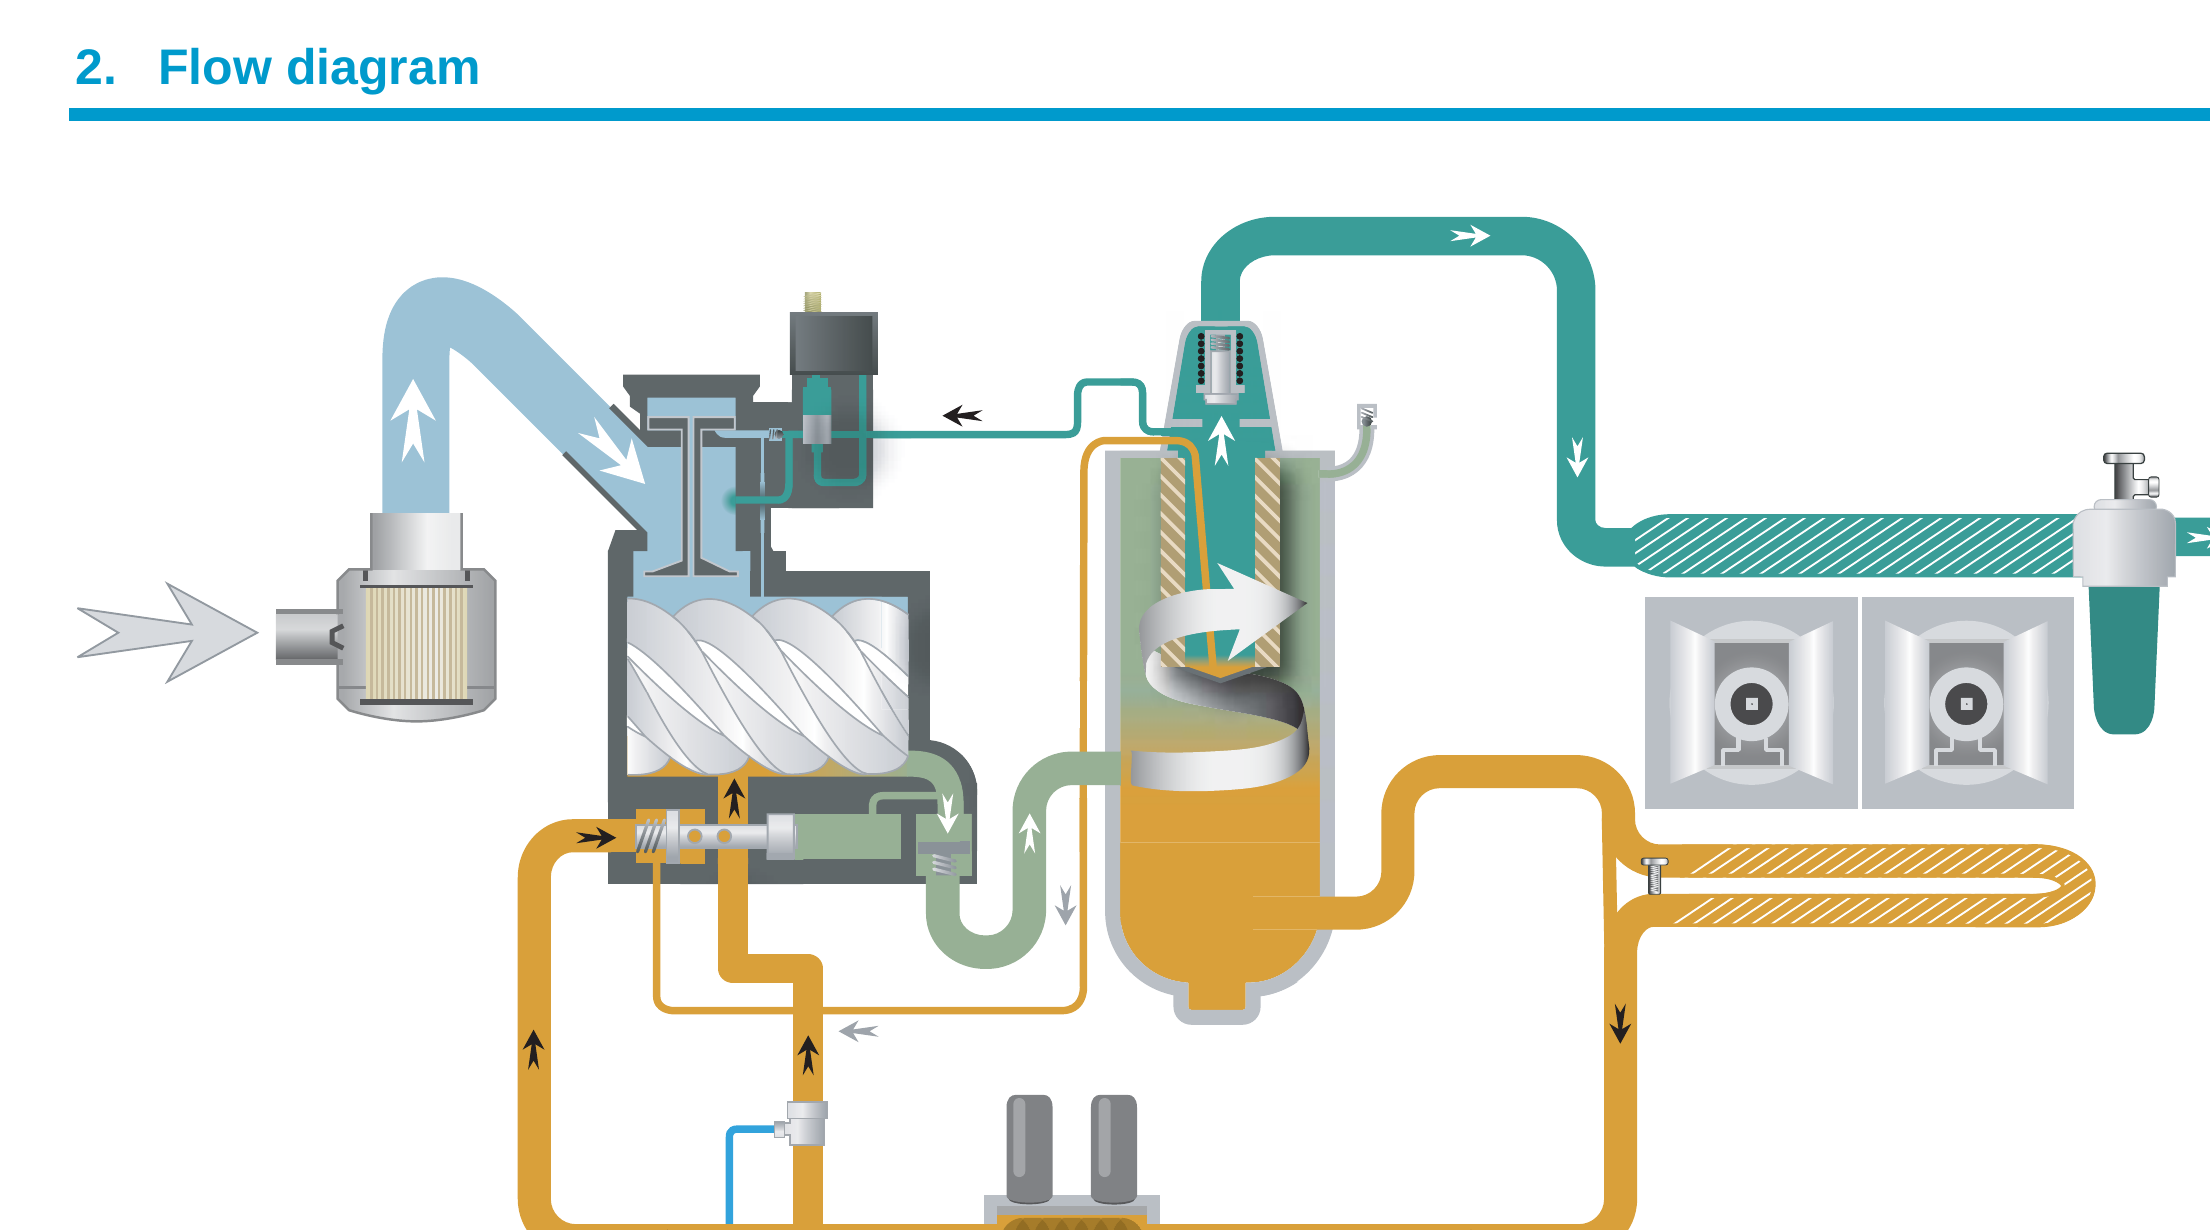
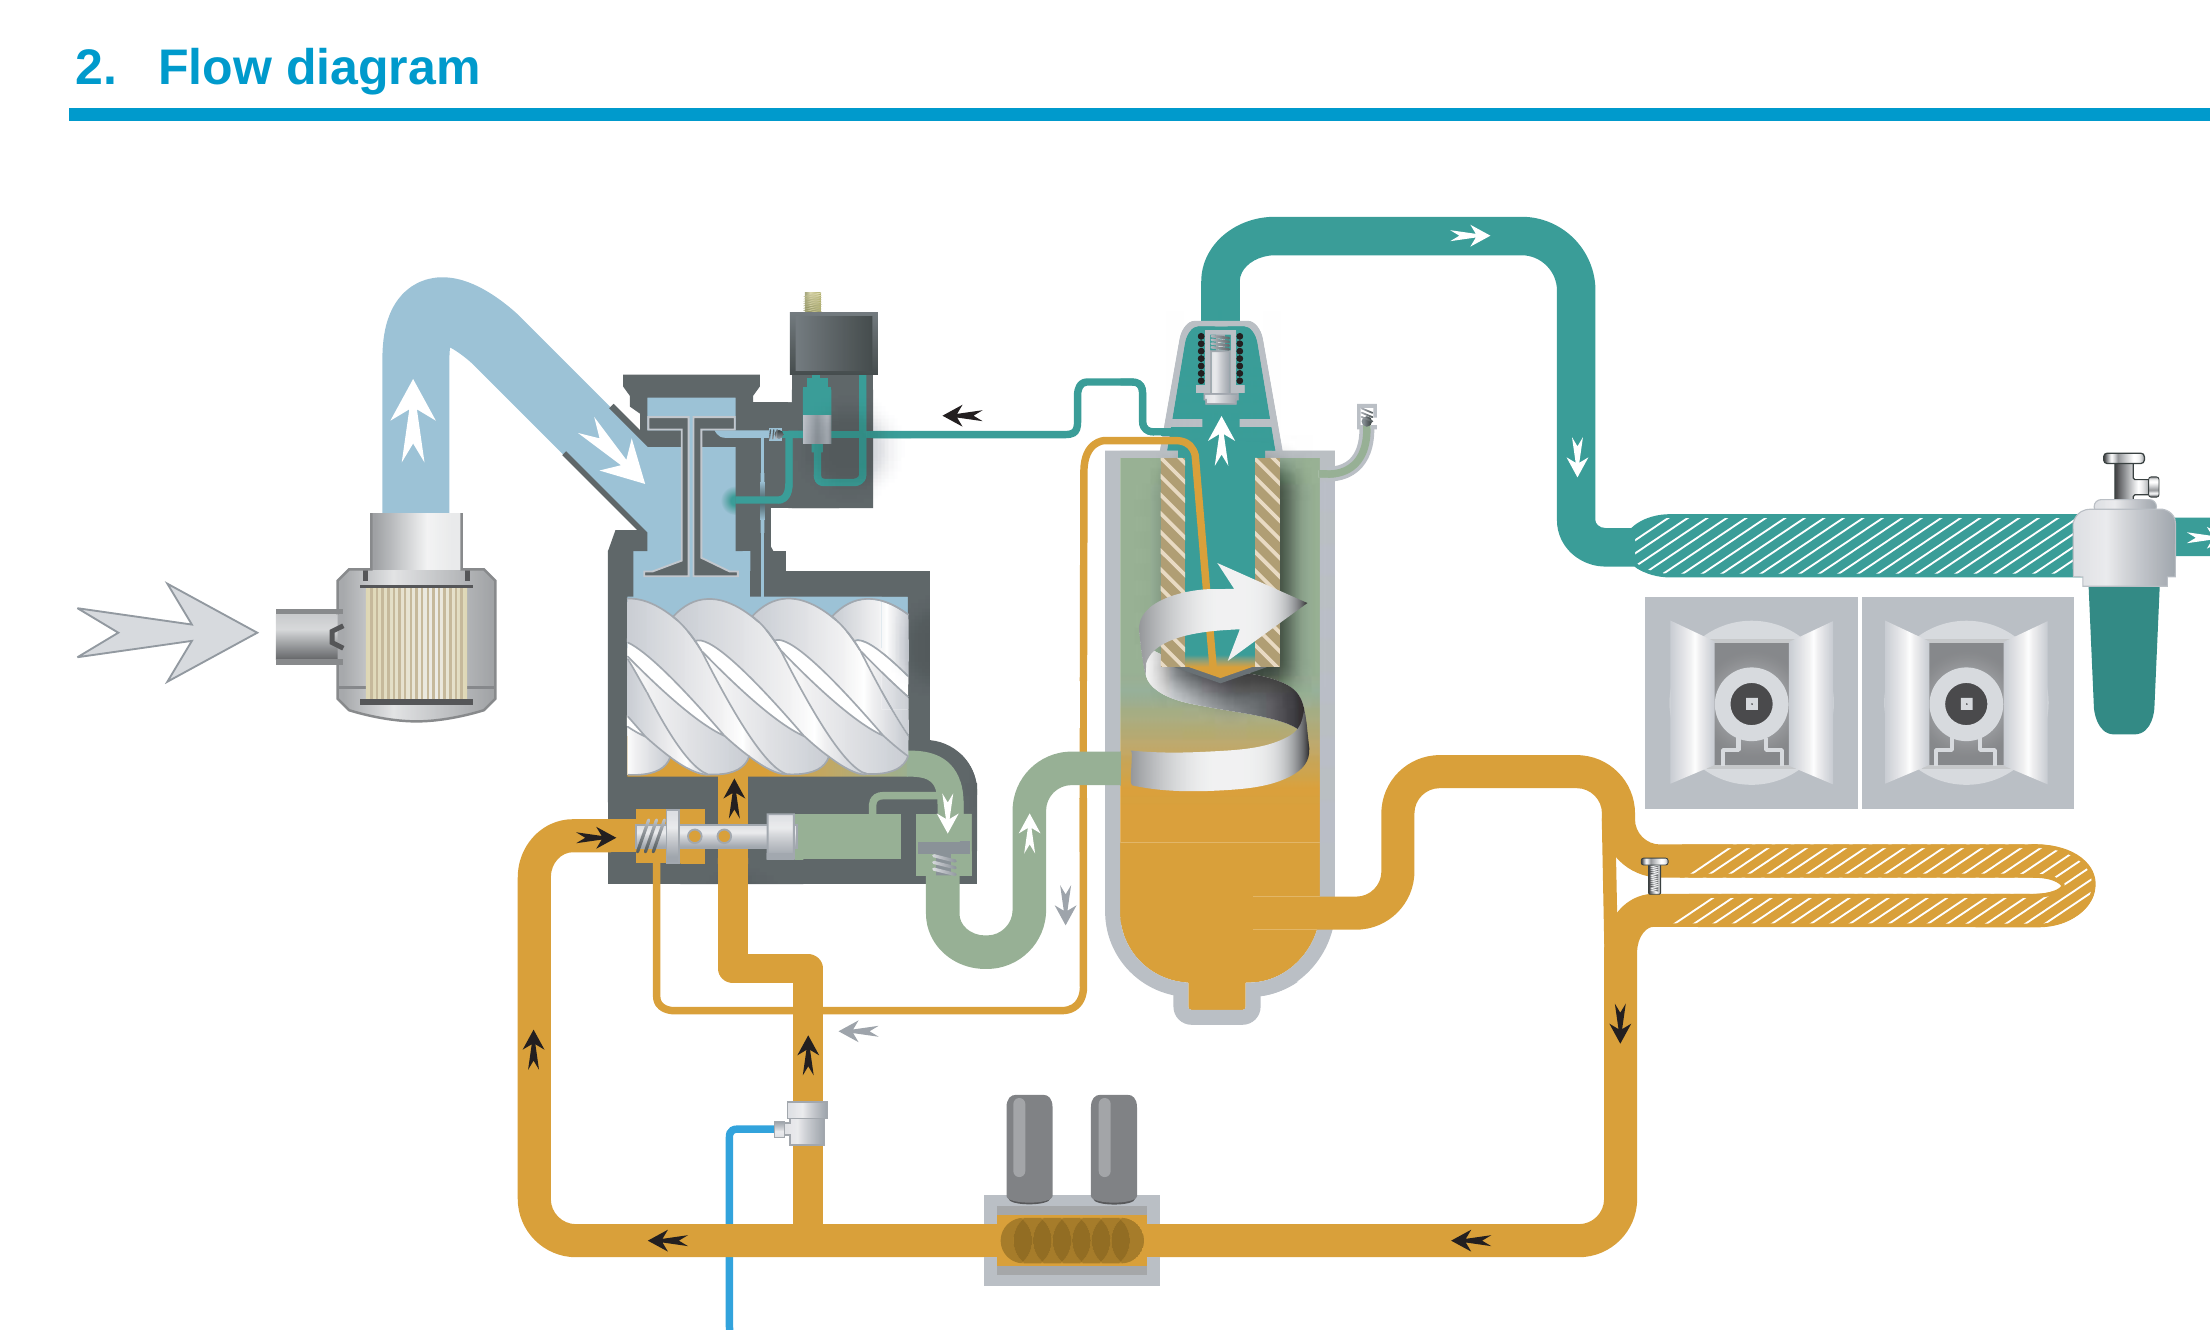
Recorta diagrama completo y anima solo las flechas originales, sin mover el tubo
Claude-Session: https://claude.ai/code/session_011JbwPBwhAyv1fQmhFgUqLe

diff --git a/compresores/ga.html b/compresores/ga.html
@@ -5,8 +5,7 @@
 <meta name="viewport" content="width=device-width,initial-scale=1">
 <title>Flujo de aire y aceite - Compresor GA (enfriado por aire)</title>
 <style>
-:root{--bg:#f7f7f5;--fg:#1d1d1b;--mut:#6b6b66;--card:#ffffff;--line:#c9c9c2;--acc:#0a7e8c;--hi:#e23b2e;
---c-air:#9fc3e8;--c-wet:#1f9e8f;--c-mix:#8fae7f;--c-oil:#e0a339}
+:root{--bg:#f7f7f5;--fg:#1d1d1b;--mut:#6b6b66;--card:#ffffff;--line:#c9c9c2;--acc:#0a7e8c;--hi:#e23b2e}
 @media (prefers-color-scheme:dark){:root{--bg:#161715;--fg:#ececea;--mut:#9a9a94;--card:#1f201d;--line:#44463f;--acc:#3fc1cf;--hi:#ff6b5e}}
 *{box-sizing:border-box}
 body{margin:0;font-family:system-ui,-apple-system,sans-serif;background:var(--bg);color:var(--fg)}
@@ -19,27 +18,26 @@ button.on{background:var(--acc);color:#fff;border-color:var(--acc)}
 .status{color:var(--mut);font-size:13px;margin-left:auto}
 .wrap{display:grid;grid-template-columns:1fr 300px;gap:12px;padding:0 18px 18px}
 @media(max-width:800px){.wrap{grid-template-columns:1fr}}
-.stage{position:relative;border:1px solid var(--line);border-radius:10px;background:#fff;overflow:auto;height:560px;touch-action:none}
-.canvas{position:relative;transform-origin:0 0;cursor:grab;width:2210px;height:1230px}
+.stage{position:relative;border:1px solid var(--line);border-radius:10px;background:#fff;overflow:auto;height:720px;touch-action:none}
+.canvas{position:relative;transform-origin:0 0;cursor:grab;width:2210px;height:1330px}
 .canvas.drag{cursor:grabbing}
-.canvas img{position:absolute;top:0;left:0;width:2210px;height:1230px;user-select:none;pointer-events:none}
-.canvas svg{position:absolute;top:0;left:0;width:2210px;height:1230px;pointer-events:none}
-.hot{position:absolute;width:34px;height:34px;margin:-17px 0 0 -17px;border-radius:50%;background:transparent;border:2px solid transparent;cursor:pointer;pointer-events:auto}
+.canvas>img.base{position:absolute;top:0;left:0;width:2210px;height:1330px;user-select:none;pointer-events:none}
+.arr{position:absolute;pointer-events:none;will-change:transform}
+.hot{position:absolute;width:34px;height:34px;margin:-17px 0 0 -17px;border-radius:50%;background:transparent;border:2px solid transparent;cursor:pointer}
 .hot:hover,.hot.sel{background:rgba(226,59,46,.2);border-color:var(--hi)}
 .side{border:1px solid var(--line);border-radius:10px;background:var(--card);padding:14px;font-size:14px;line-height:1.55;align-self:start}
 .side h2{font-size:16px;margin:0 0 6px}
-.code-tag{color:var(--acc);font-weight:700}
 .legend{display:flex;flex-wrap:wrap;gap:10px;font-size:12px;color:var(--mut);padding:0 18px 10px}
 .legend span{display:inline-flex;align-items:center;gap:5px}
 .sw{width:12px;height:12px;border-radius:3px;display:inline-block}
 .zoombar{display:flex;gap:6px;margin-left:8px}
-.therm{display:flex;gap:6px;margin-left:8px;border-left:1px solid var(--line);padding-left:10px}
+.therm{display:flex;gap:6px;margin-left:8px;border-left:1px solid var(--line);padding-left:10px;align-items:center}
 </style>
 </head>
 <body>
 <header>
   <h1>Compresor GA enfriado por aire - diagrama de flujo animado</h1>
-  <p class="sub">Mismo diagrama del manual Atlas Copco (PM 2946 1198 00), con el recorrido de aire y aceite animado.</p>
+  <p class="sub">Diagrama del manual Atlas Copco (PM 2946 1198 00). Las flechas del propio diagrama se mueven en su dirección de flujo.</p>
 </header>
 <div class="bar">
   <div class="therm">
@@ -55,63 +53,63 @@ button.on{background:var(--acc);color:#fff;border-color:var(--acc)}
   <span id="status" class="status"></span>
 </div>
 <div class="legend">
-  <span><i class="sw" style="background:var(--c-air)"></i>Aire de entrada</span>
-  <span><i class="sw" style="background:var(--c-mix)"></i>Mezcla aire/aceite</span>
-  <span><i class="sw" style="background:var(--c-wet)"></i>Aire húmedo (comprimido)</span>
-  <span><i class="sw" style="background:var(--c-oil)"></i>Aceite</span>
+  <span><i class="sw" style="background:#9fc3e8"></i>Aire de entrada</span>
+  <span><i class="sw" style="background:#8fae7f"></i>Mezcla aire/aceite</span>
+  <span><i class="sw" style="background:#1f9e8f"></i>Aire húmedo (comprimido)</span>
+  <span><i class="sw" style="background:#e0a339"></i>Aceite</span>
 </div>
 <div class="wrap">
   <div class="stage" id="stage">
     <div class="canvas" id="canvas">
-      <img src="img/ga_flujo.png" alt="Diagrama de flujo del compresor GA">
-      <div id="arrowLayer" style="position:absolute;top:0;left:0;width:2210px;height:1230px;pointer-events:none"></div>
+      <img class="base" src="img/ga_base.png" alt="Diagrama de flujo del compresor GA">
     </div>
   </div>
-  <aside class="side" id="info"><h2>Selecciona un componente</h2><p>Haz clic en un punto del diagrama. Prueba también el botón Frío / Caliente para ver cómo cambia la ruta del aceite en la válvula termostática.</p></aside>
+  <aside class="side" id="info"><h2>Selecciona un componente</h2><p>Haz clic en un punto del diagrama. Usa Frío / Caliente para ver el estado de la válvula BV.</p></aside>
 </div>
-<p style="padding:0 18px 20px;font-size:12px;color:var(--mut)">Fuente: Atlas Copco, Flow diagram, Air Cooled GA, PM 2946 1198 00, y Manual de instrucciones GA132 (APF132129), sección 2.2 Sistema de aire y aceite, diagrama de flujo GA90 a GA160. Diagrama de referencia, verifica siempre contra el manual del equipo específico.</p>
+<p style="padding:0 18px 20px;font-size:12px;color:var(--mut)">Fuente: Atlas Copco, Flow diagram, Air Cooled GA, PM 2946 1198 00, y Manual de instrucciones GA132 (APF132129), sección 2.2, diagrama de flujo GA90 a GA160. Diagrama de referencia, verifica siempre contra el manual del equipo específico.</p>
 <script>
-const ARROW_SPRITES=[
[14 lines of base64/hex data omitted]
+const ARROWS = [
+ {id:'L1',l:939,t:402,w:45,h:28,dx:-1,dy:0},
+ {id:'U1',l:720,t:775,w:29,h:46,dx:0,dy:-1},
+ {id:'R1',l:574,t:824,w:46,h:28,dx:1,dy:0},
+ {id:'D1',l:1606,t:1001,w:29,h:46,dx:0,dy:1},
+ {id:'U2',l:519,t:1026,w:29,h:45,dx:0,dy:-1},
+ {id:'U3',l:794,t:1032,w:29,h:46,dx:0,dy:-1},
+ {id:'BL',l:642,t:1222,w:54,h:32,dx:-1,dy:0},
+ {id:'BR',l:1444,t:1224,w:54,h:32,dx:-1,dy:0},
+ {id:'W1',l:387,t:375,w:52,h:90,dx:0,dy:-1},
+ {id:'W2',l:575,t:415,w:74,h:73,dx:0.7,dy:0.7},
+ {id:'W3',l:1205,t:412,w:33,h:57,dx:0,dy:-1},
+ {id:'W4',l:1441,t:218,w:58,h:36,dx:1,dy:0},
+ {id:'W5',l:1563,t:436,w:29,h:45,dx:0,dy:1},
+ {id:'W6',l:1014,t:804,w:34,h:58,dx:0,dy:-1},
+ {id:'W7',l:932,t:786,w:32,h:52,dx:0,dy:1},
+ {id:'G1',l:836,t:1018,w:46,h:28,dx:-1,dy:0},
+ {id:'G2',l:1055,t:880,w:25,h:48,dx:0,dy:1}
 ];
 const NS='http://www.w3.org/2000/svg';
 const canvas=document.getElementById('canvas');
-const svg=canvas.querySelector('svg');
 const info=document.getElementById('info');
 const statusEl=document.getElementById('status');
 let hot=false;
 
 const HOTSPOTS=[
- {id:'filtro', x:270, y:595, name:'AF - Filtro de aire', desc:'Filtro de aire (AF). El aire aspirado pasa primero por aquí antes del elemento compresor.'},
- {id:'valvula_adm', x:620, y:350, name:'UA - Descargador / válvula de admisión', desc:'Descargador (UA). Abre o cierra la entrada de aire al elemento. En descarga, la válvula solenoide corta el suministro de presión, la válvula de descarga se cierra y el depósito se desahoga hacia la toma de aire (blow off). En carga, la solenoide abre paso a la presión del depósito y la válvula de descarga se abre, retomando el 100% de suministro.'},
- {id:'airend', x:400, y:550, name:'E - Elemento compresor', desc:'Elemento compresor (E). Dos rotores helicoidales comprimen el aire. El aceite se inyecta aquí para sellar, lubricar y enfriar la compresión.'},
- {id:'tanque', x:1100, y:750, name:'AR - Receptor de aire / separador de aceite', desc:'Receptor de aire y separador de aceite (AR). El aire comprimido y el aceite llegan aquí a través de la válvula de retención (CV). La mayor parte del aceite se separa por centrifugación, el resto lo retira el elemento separador.'},
- {id:'separador', x:1100, y:330, name:'Elemento separador (dentro del AR)', desc:'Cartucho separador dentro del receptor AR. Retiene las últimas gotas de aceite antes de que el aire salga como aire húmedo comprimido hacia la válvula de presión mínima (Vp).'},
- {id:'cooler', x:1750, y:650, name:'Ca / Co - Enfriadores de aire y de aceite', desc:'Enfriador de aire (Ca) y enfriador de aceite (Co), refrigerados por los mismos ventiladores. Según el manual GA90-GA160, las válvulas BV dejan el enfriador de aceite fuera de circuito en arranque frío para calentar el aceite más rápido.'},
- {id:'salida', x:2080, y:505, name:'MTa / AO - Colector de condensado y salida', desc:'El aire enfriado pasa por el colector de condensado (MTa, con drenaje automático Dac y manual Dmc) antes de salir hacia la red por la válvula de salida (AO).'},
- {id:'termostatica', x:800, y:1120, name:'BV - Válvula de bypass del enfriador de aceite', desc:'Válvula BV, según el manual Atlas Copco GA90-GA160. Con el compresor frío, deja el enfriador de aceite (Co) fuera de circuito para que el aceite llegue más rápido a su temperatura de trabajo. Una vez caliente, deja pasar el aceite por el enfriador. El manual disponible no da el valor exacto en °C de este cambio. Usa Frío/Caliente para ver las dos rutas.'}
+ {x:270,y:595,name:'AF - Filtro de aire',desc:'Filtro de aire (AF). El aire aspirado pasa primero por aquí antes del elemento compresor.'},
+ {x:620,y:350,name:'UA - Descargador',desc:'Descargador (UA). Abre o cierra la entrada de aire al elemento. En descarga, la solenoide corta la presión, la válvula de descarga se cierra y el depósito se desahoga hacia la toma de aire (blow off). En carga, la solenoide deja pasar la presión del depósito y se retoma el 100% de suministro.'},
+ {x:400,y:550,name:'E - Elemento compresor',desc:'Elemento compresor (E). Dos rotores helicoidales comprimen el aire. El aceite se inyecta aquí para sellar, lubricar y enfriar la compresión.'},
+ {x:1100,y:750,name:'AR - Receptor de aire / separador de aceite',desc:'Receptor de aire y separador de aceite (AR). El aire y el aceite llegan aquí a través de la válvula de retención (CV). La mayor parte del aceite se separa por centrifugación.'},
+ {x:1100,y:330,name:'Elemento separador (dentro del AR)',desc:'Cartucho separador dentro del receptor AR. Retiene las últimas gotas de aceite antes de que el aire salga hacia la válvula de presión mínima (Vp).'},
+ {x:1750,y:650,name:'Ca / Co - Enfriadores de aire y aceite',desc:'Enfriador de aire (Ca) y enfriador de aceite (Co), refrigerados por los mismos ventiladores.'},
+ {x:2080,y:505,name:'MTa / AO - Colector de condensado y salida',desc:'El aire enfriado pasa por el colector de condensado (MTa) antes de salir hacia la red por la válvula de salida (AO).'},
+ {x:800,y:1120,name:'BV - Válvula de bypass del enfriador de aceite',desc:'Válvula BV. Con el compresor frío deja el enfriador de aceite (Co) fuera de circuito para calentar el aceite más rápido. Una vez caliente, deja pasar el aceite por el enfriador. El manual disponible no da el valor exacto en °C de este cambio.'}
 ];
 
 function buildHotspots(){
-  canvas.querySelectorAll('.hot').forEach(n=>n.remove());
   for(const h of HOTSPOTS){
     const d=document.createElement('div');
     d.className='hot';
-    d.style.left=(h.x/2210*100)+'%';
-    d.style.top=(h.y/1230*100)+'%';
+    d.style.left=h.x+'px';
+    d.style.top=h.y+'px';
     d.onclick=()=>select(h,d);
     canvas.appendChild(d);
   }
@@ -122,31 +120,24 @@ function select(h,el){
   info.innerHTML=`<h2>${h.name}</h2><p>${h.desc}</p>`;
 }
 
-const arrowLayer=document.getElementById('arrowLayer');
-const AMPLITUDE=7, SPEED=0.0028;
-let sprites=[];
+const sprites=ARROWS.map(a=>{
+  const img=document.createElement('img');
+  img.className='arr';
+  img.src='arrows/'+a.id+'.png';
+  img.alt='';
+  img.style.left=a.l+'px';
+  img.style.top=a.t+'px';
+  img.style.width=a.w+'px';
+  img.style.height=a.h+'px';
+  canvas.appendChild(img);
+  return {el:img,dx:a.dx,dy:a.dy};
+});
 
-function buildArrowSprites(){
-  arrowLayer.innerHTML='';
-  sprites=[];
-  for(const a of ARROW_SPRITES){
-    const img=document.createElement('img');
-    img.src=a.src;
-    img.style.position='absolute';
-    img.style.left=a.l+'px';
-    img.style.top=a.t+'px';
-    img.style.width=a.w+'px';
-    img.style.height=a.h+'px';
-    img.style.willChange='transform';
-    arrowLayer.appendChild(img);
-    sprites.push({el:img, dx:a.dx, dy:a.dy, phase:Math.random()*Math.PI*2, oilRelated: a.oil||false});
-  }
-}
-
+const AMP=6, SPEED=0.0035;
 function tick(ts){
+  const off=AMP*Math.sin((ts||0)*SPEED);
   for(const s of sprites){
-    const off=AMPLITUDE*Math.sin((ts||0)*SPEED+s.phase);
-    s.el.style.transform=`translate(${s.dx*off}px,${s.dy*off}px)`;
+    s.el.style.transform=`translate(${(s.dx*off).toFixed(2)}px,${(s.dy*off).toFixed(2)}px)`;
   }
   requestAnimationFrame(tick);
 }
@@ -179,7 +170,6 @@ canvas.addEventListener('pointermove',e=>{ if(!dragging) return; panX=e.clientX-
 canvas.addEventListener('pointerup',()=>{ dragging=false; canvas.classList.remove('drag'); });
 
 buildHotspots();
-buildArrowSprites();
 setTherm(false);
 requestAnimationFrame(tick);
 </script>
